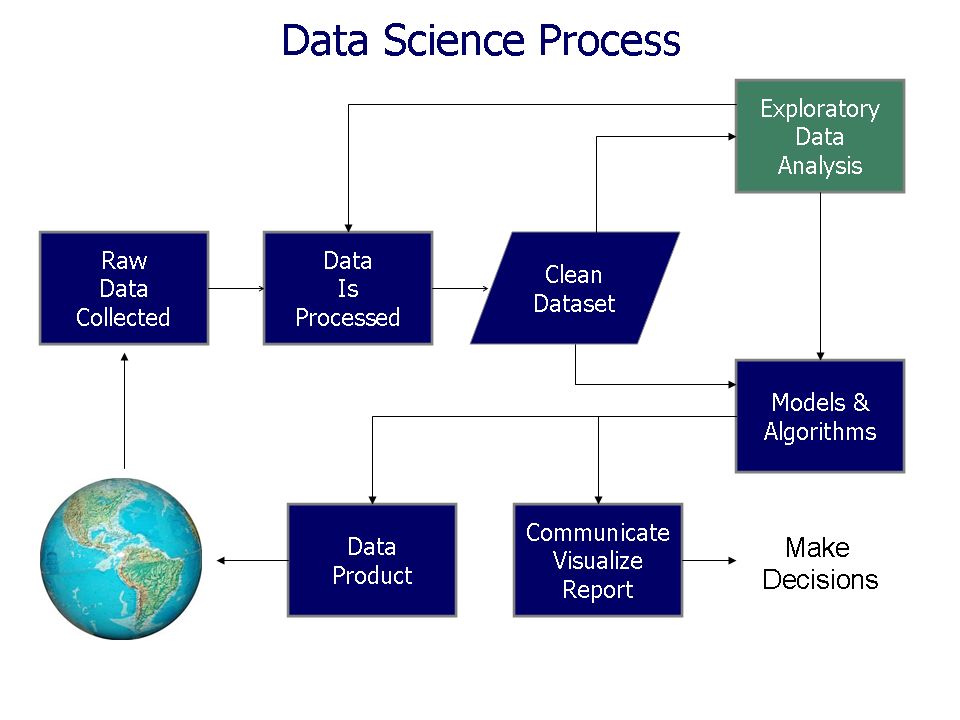
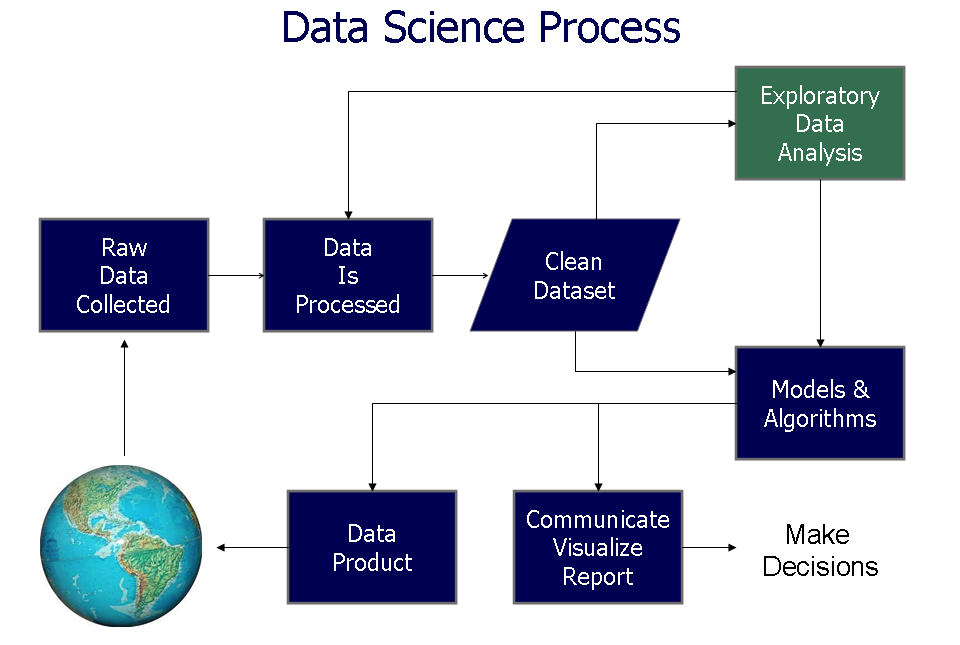
ver 3.0.11

diff --git a/home.html b/home.html
@@ -95,7 +95,7 @@ www.typeandgrids.com
 						<h5>Making Patent Litigation Predictions</h5>
 					</div>
 					
-					<img src="images/projects/DataScienceProcess.png" alt="Project 01" class="thumbnailImage" height="1000" width="4100"/>
+					<img src="images/projects/DataScienceProcess.png" alt="Project 01" class="thumbnailImage" height="4900" width="4300"/>
 				</div>
 				
 				<div class="projectInfo">
